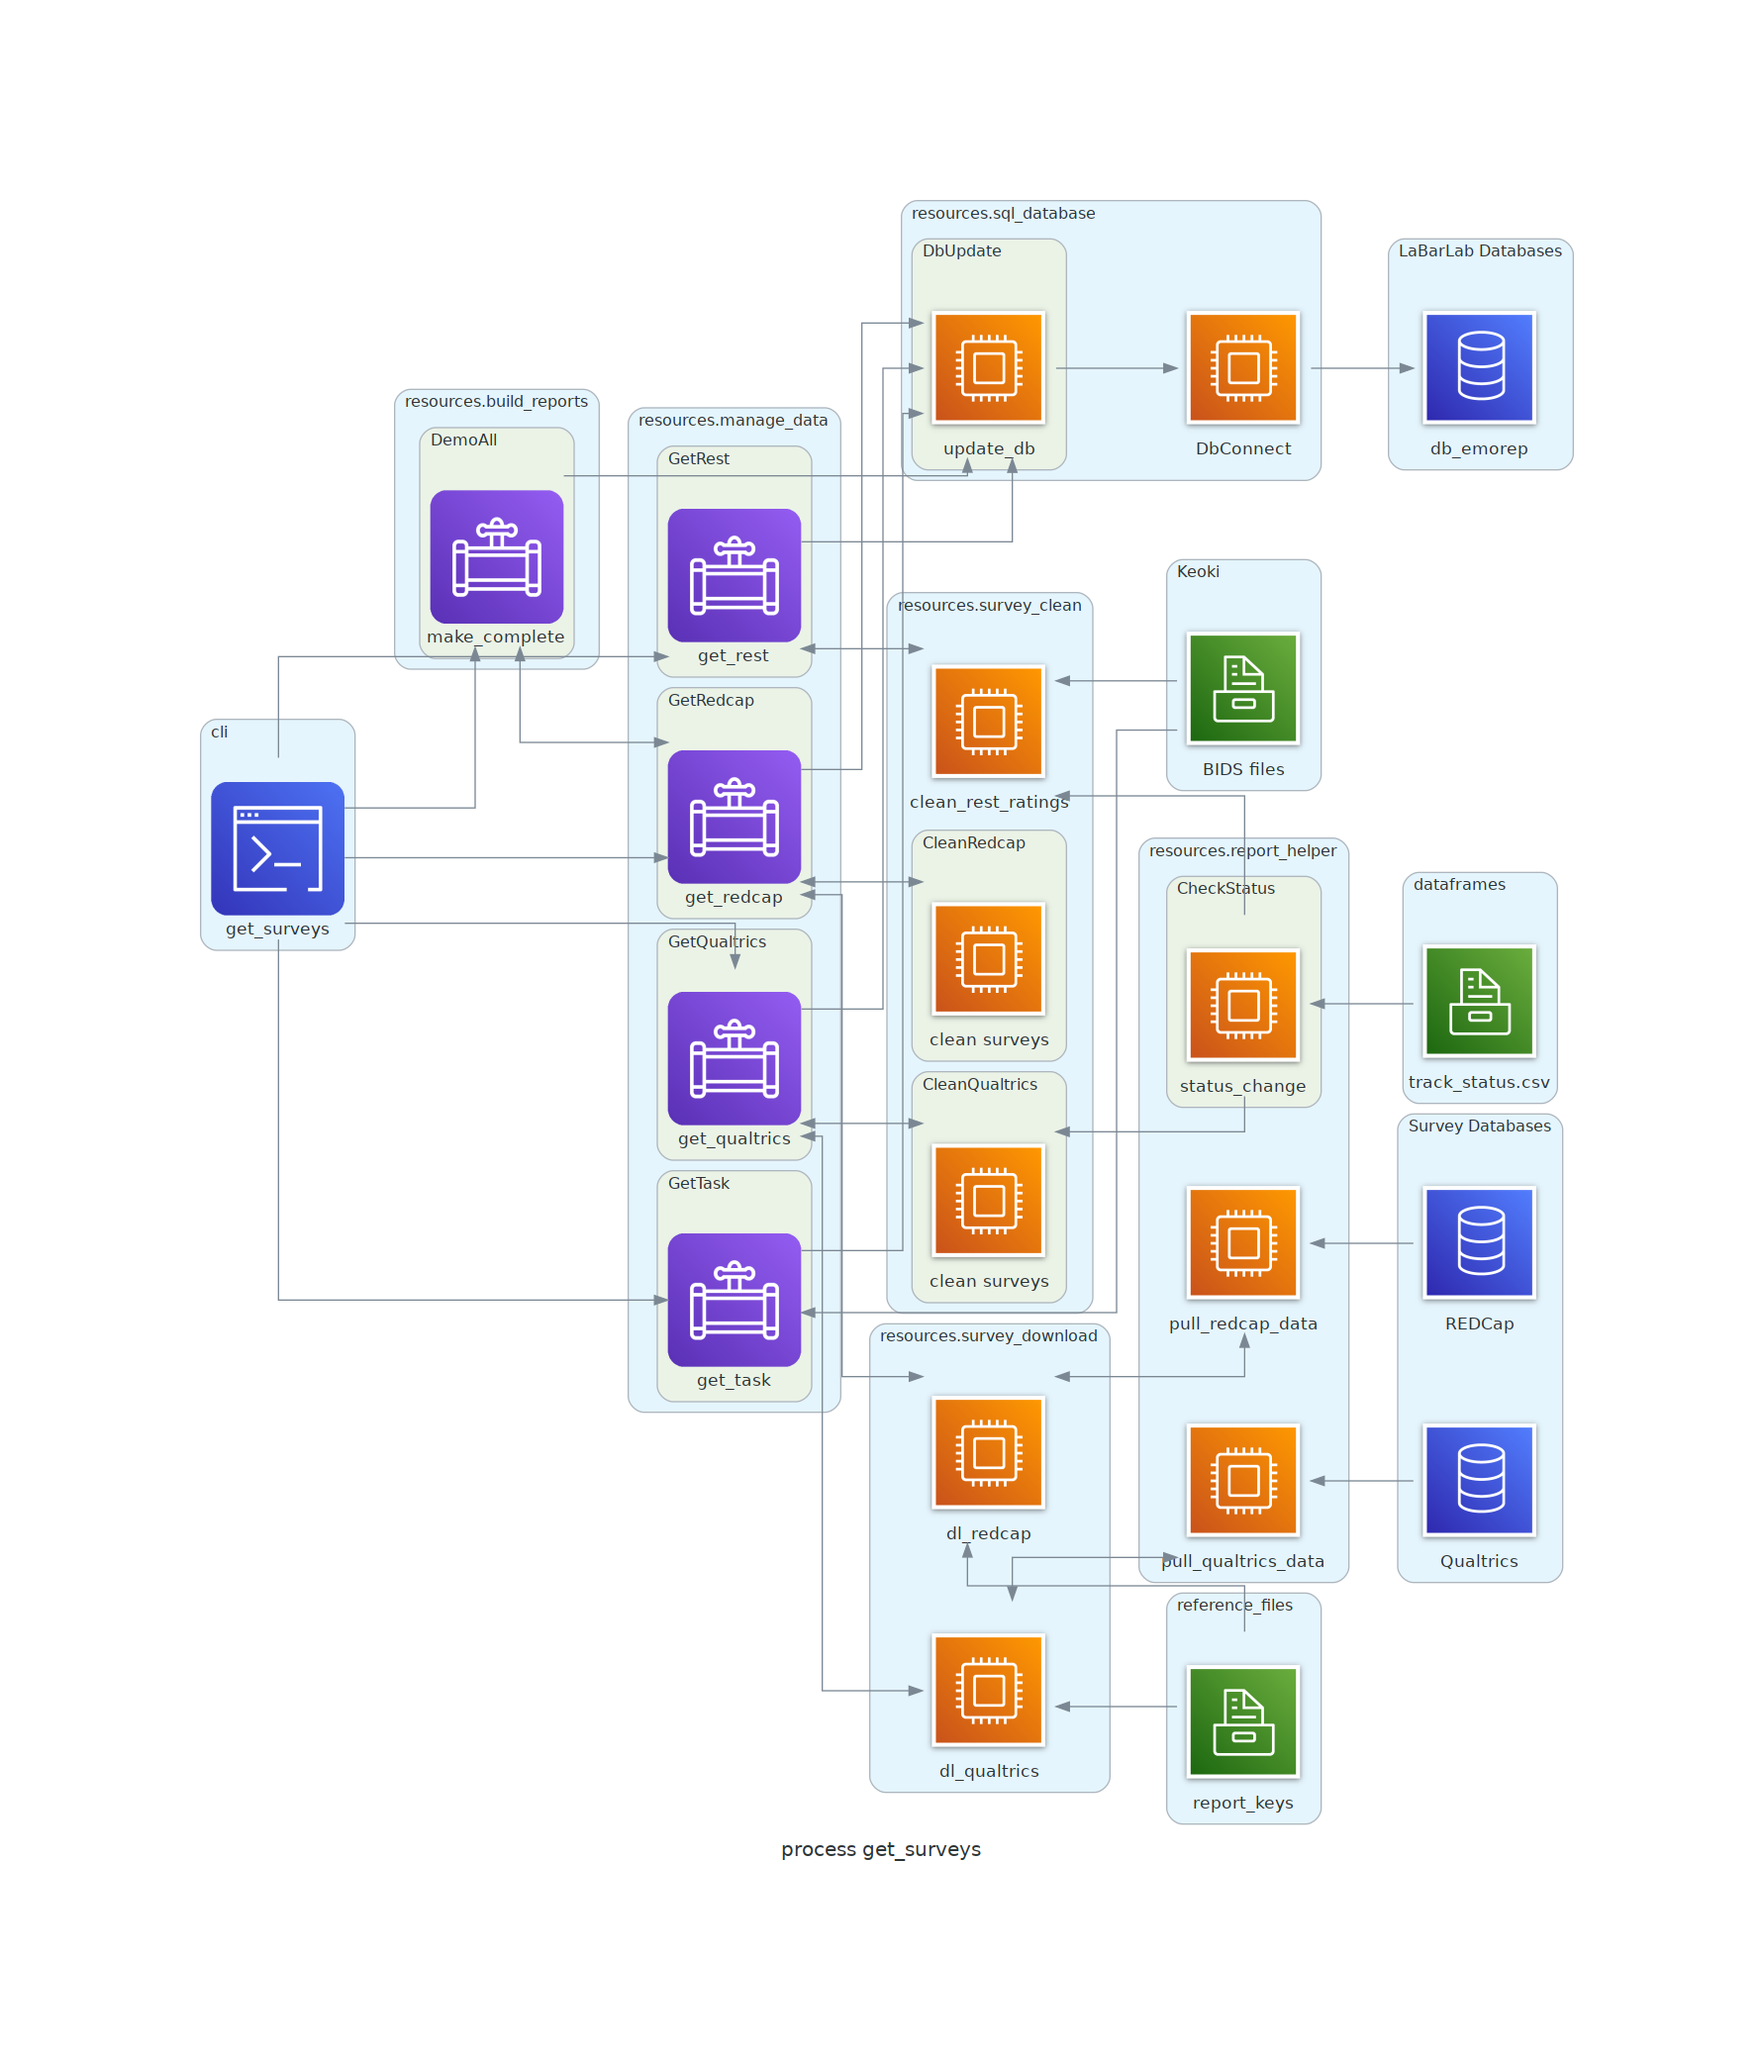
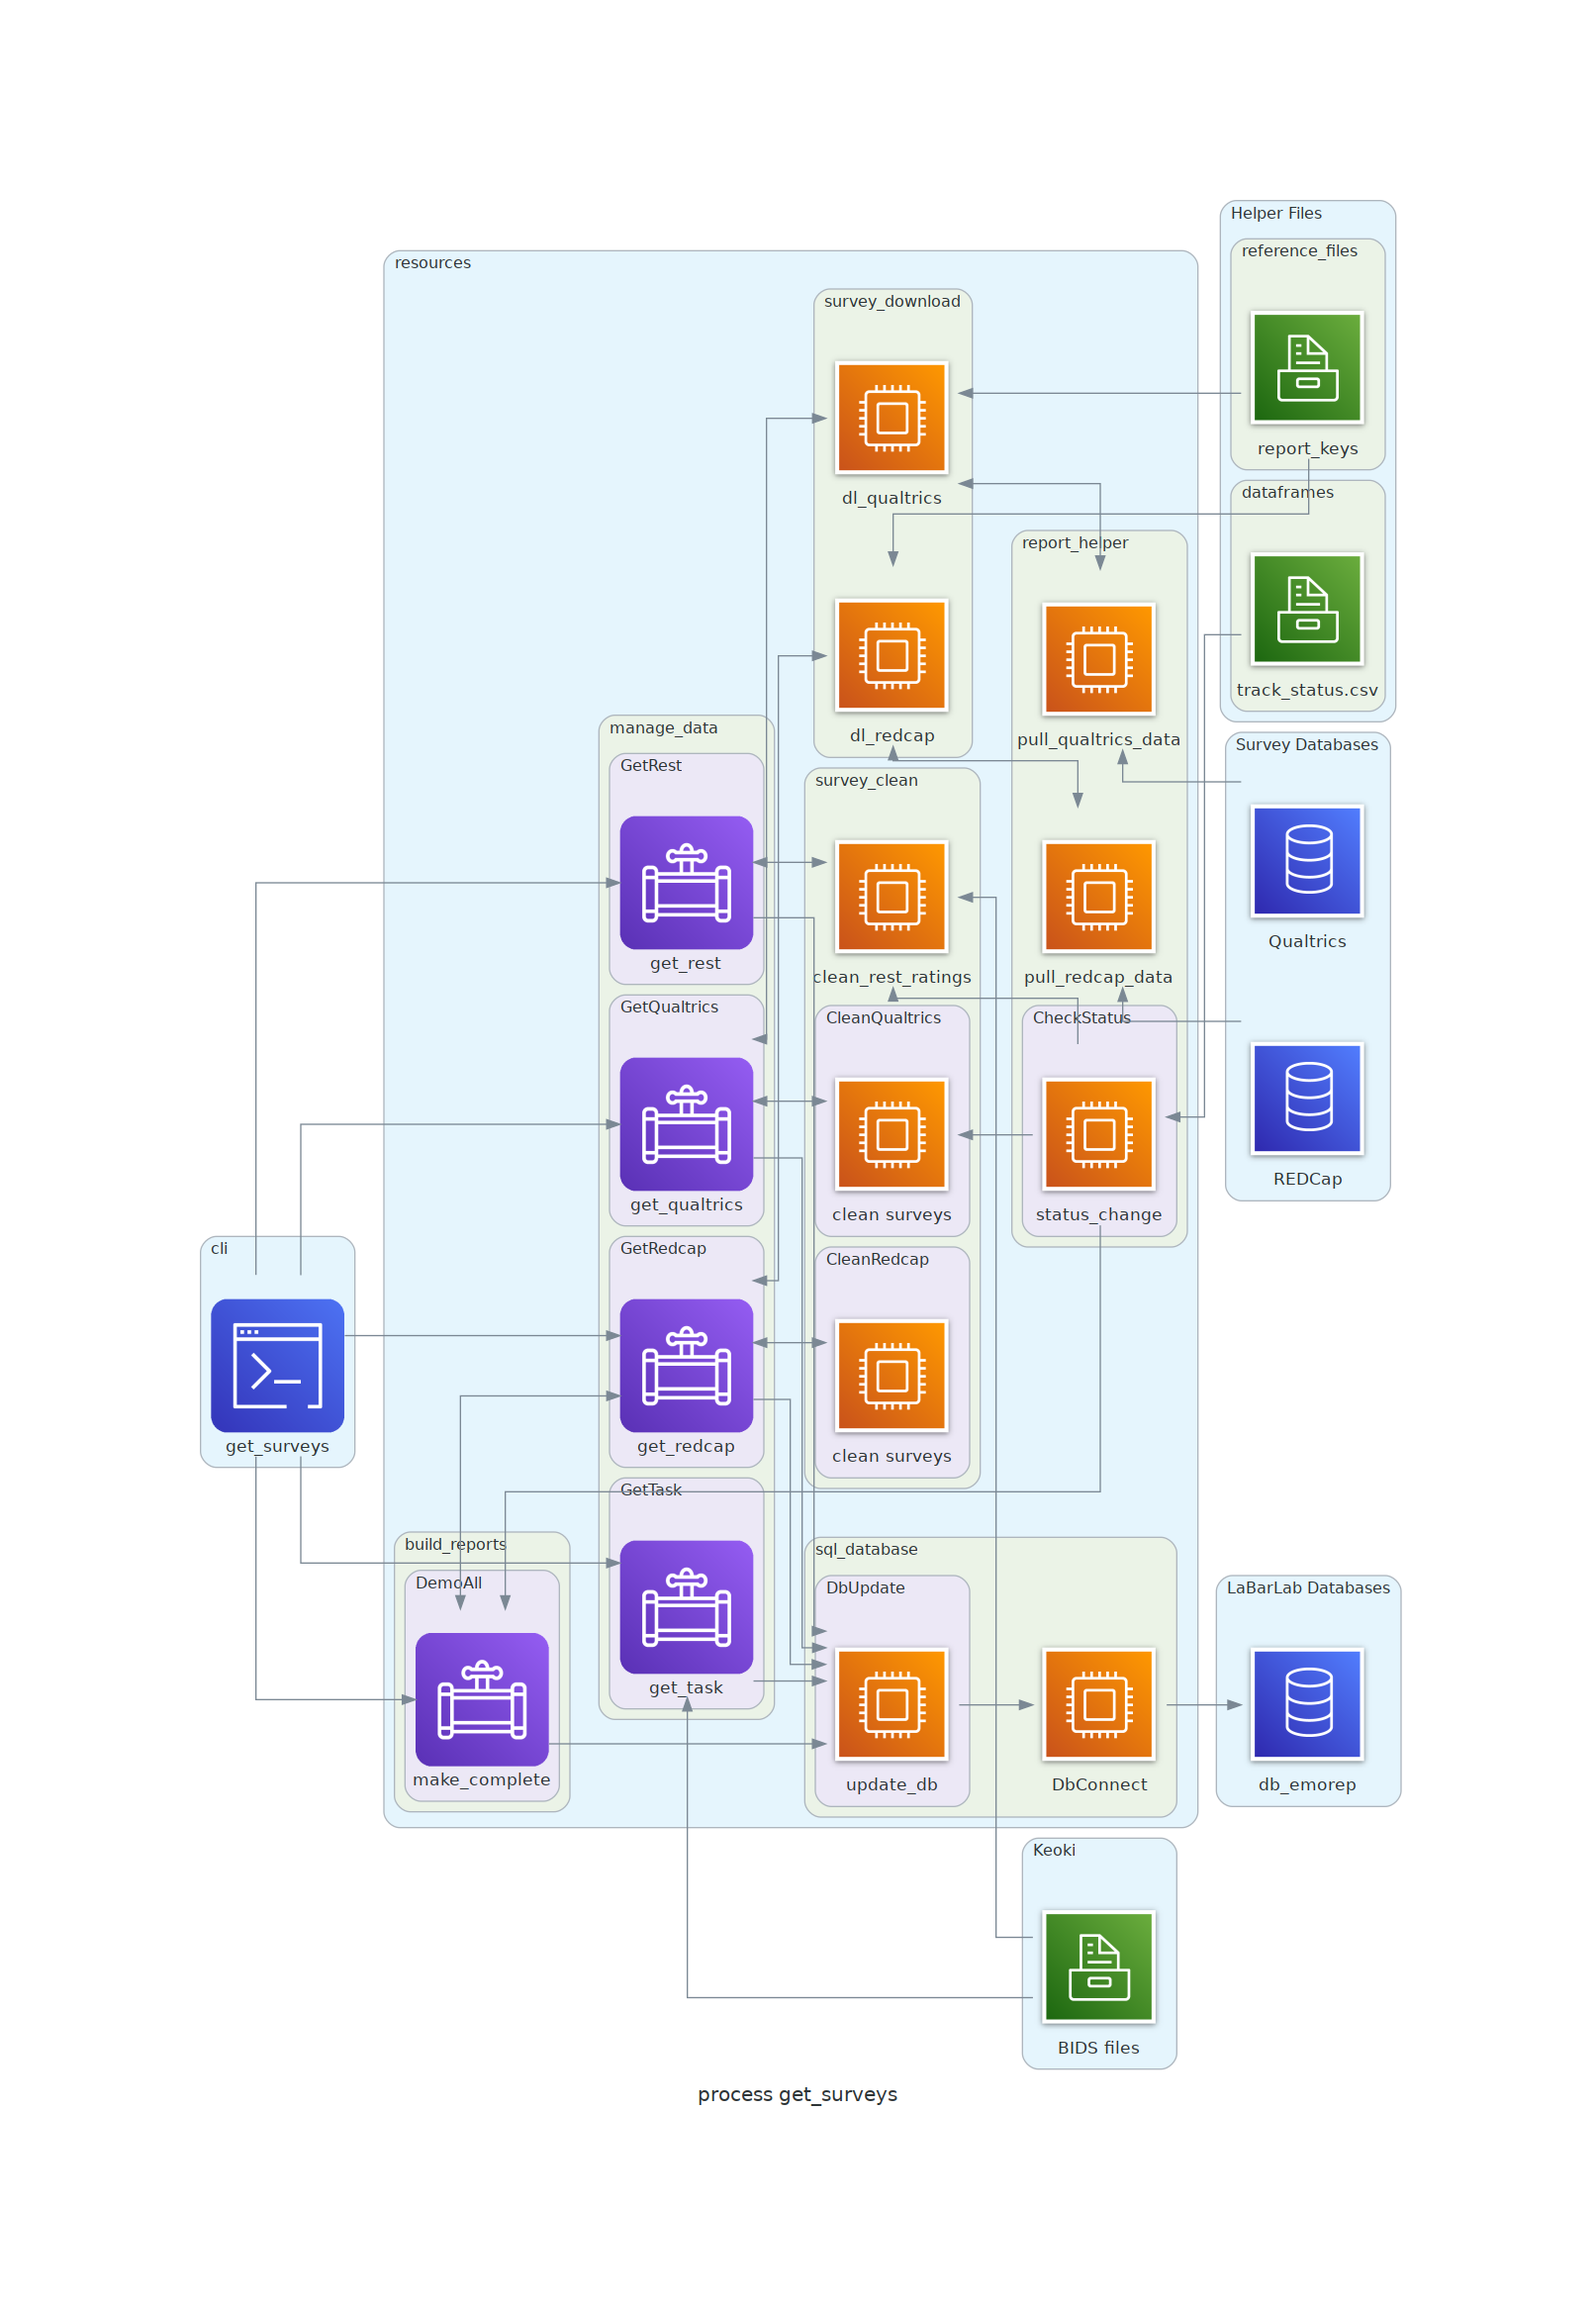
[MNT] updated get_surveys process diagram

diff --git a/diagrams/mk_diagrams.py b/diagrams/mk_diagrams.py
@@ -190,46 +190,52 @@ with Diagram("process get_surveys", graph_attr=graph_attr, show=False):
     with Cluster("cli"):
         cli_get_surveys = CommandLineInterface("get_surveys")
 
-    with Cluster("resources.manage_data"):
-        with Cluster("GetRest"):
-            rsc_get_rest = DataPipeline("get_rest")
-        with Cluster("GetRedcap"):
-            rsc_get_redcap = DataPipeline("get_redcap")
-        with Cluster("GetQualtrics"):
-            rsc_get_qual = DataPipeline("get_qualtrics")
-        with Cluster("GetTask"):
-            rsc_get_task = DataPipeline("get_task")
-
     with Cluster("Keoki"):
         bids_files = Storage("BIDS files")
 
-    with Cluster("resources.survey_download"):
-        rsc_sur_dl_rc = Compute("dl_redcap")
-        rsc_sur_dl_qual = Compute("dl_qualtrics")
+    with Cluster("resources"):
+        with Cluster("manage_data"):
+            with Cluster("GetRest"):
+                rsc_get_rest = DataPipeline("get_rest")
+            with Cluster("GetRedcap"):
+                rsc_get_redcap = DataPipeline("get_redcap")
+            with Cluster("GetQualtrics"):
+                rsc_get_qual = DataPipeline("get_qualtrics")
+            with Cluster("GetTask"):
+                rsc_get_task = DataPipeline("get_task")
 
-    with Cluster("resources.survey_clean"):
-        rsc_sur_cl_rr = Compute("clean_rest_ratings")
-        with Cluster("CleanRedcap"):
-            rsc_sur_cl_rc = Compute("clean surveys")
-        with Cluster("CleanQualtrics"):
-            rsc_sur_cl_qual = Compute("clean surveys")
+        with Cluster("survey_download"):
+            rsc_sur_dl_rc = Compute("dl_redcap")
+            rsc_sur_dl_qual = Compute("dl_qualtrics")
 
-    with Cluster("resources.report_helper"):
-        with Cluster("CheckStatus"):
-            rsc_stat_change = Compute("status_change")
-        rsc_pull_rc = Compute("pull_redcap_data")
-        rsc_pull_qual = Compute("pull_qualtrics_data")
+        with Cluster("survey_clean"):
+            rsc_sur_cl_rr = Compute("clean_rest_ratings")
+            with Cluster("CleanRedcap"):
+                rsc_sur_cl_rc = Compute("clean surveys")
+            with Cluster("CleanQualtrics"):
+                rsc_sur_cl_qual = Compute("clean surveys")
 
-    with Cluster("dataframes"):
-        ref_dfs = Storage("track_status.csv")
+        with Cluster("report_helper"):
+            with Cluster("CheckStatus"):
+                rsc_stat_change = Compute("status_change")
+            rsc_pull_rc = Compute("pull_redcap_data")
+            rsc_pull_qual = Compute("pull_qualtrics_data")
 
-    with Cluster("reference_files"):
-        ref_file = Storage("report_keys")
+        with Cluster("sql_database"):
+            rsc_db_connect = Compute("DbConnect")
+            with Cluster("DbUpdate"):
+                rsc_db_update = Compute("update_db")
 
-    with Cluster("resources.sql_database"):
-        rsc_db_connect = Compute("DbConnect")
-        with Cluster("DbUpdate"):
-            rsc_db_update = Compute("update_db")
+        with Cluster("build_reports"):
+            with Cluster("DemoAll"):
+                rsc_mk_compl = DataPipeline("make_complete")
+
+    with Cluster("Helper Files"):
+        with Cluster("dataframes"):
+            ref_dfs = Storage("track_status.csv")
+
+        with Cluster("reference_files"):
+            ref_file = Storage("report_keys")
 
     with Cluster("LaBarLab Databases"):
         rsc_db_emorep = Database("db_emorep")
@@ -237,10 +243,6 @@ with Diagram("process get_surveys", graph_attr=graph_attr, show=False):
     with Cluster("Survey Databases"):
         db_redcap = Database("REDCap")
         db_qualtrics = Database("Qualtrics")
-
-    with Cluster("resources.build_reports"):
-        with Cluster("DemoAll"):
-            rsc_mk_compl = DataPipeline("make_complete")
 
     # GetRest
     (
@@ -284,6 +286,5 @@ with Diagram("process get_surveys", graph_attr=graph_attr, show=False):
 
     # GetDemo
     cli_get_surveys >> rsc_mk_compl >> Edge(color="") << rsc_get_redcap
+    rsc_mk_compl << rsc_stat_change
     rsc_mk_compl >> rsc_db_update
-
-# %%
